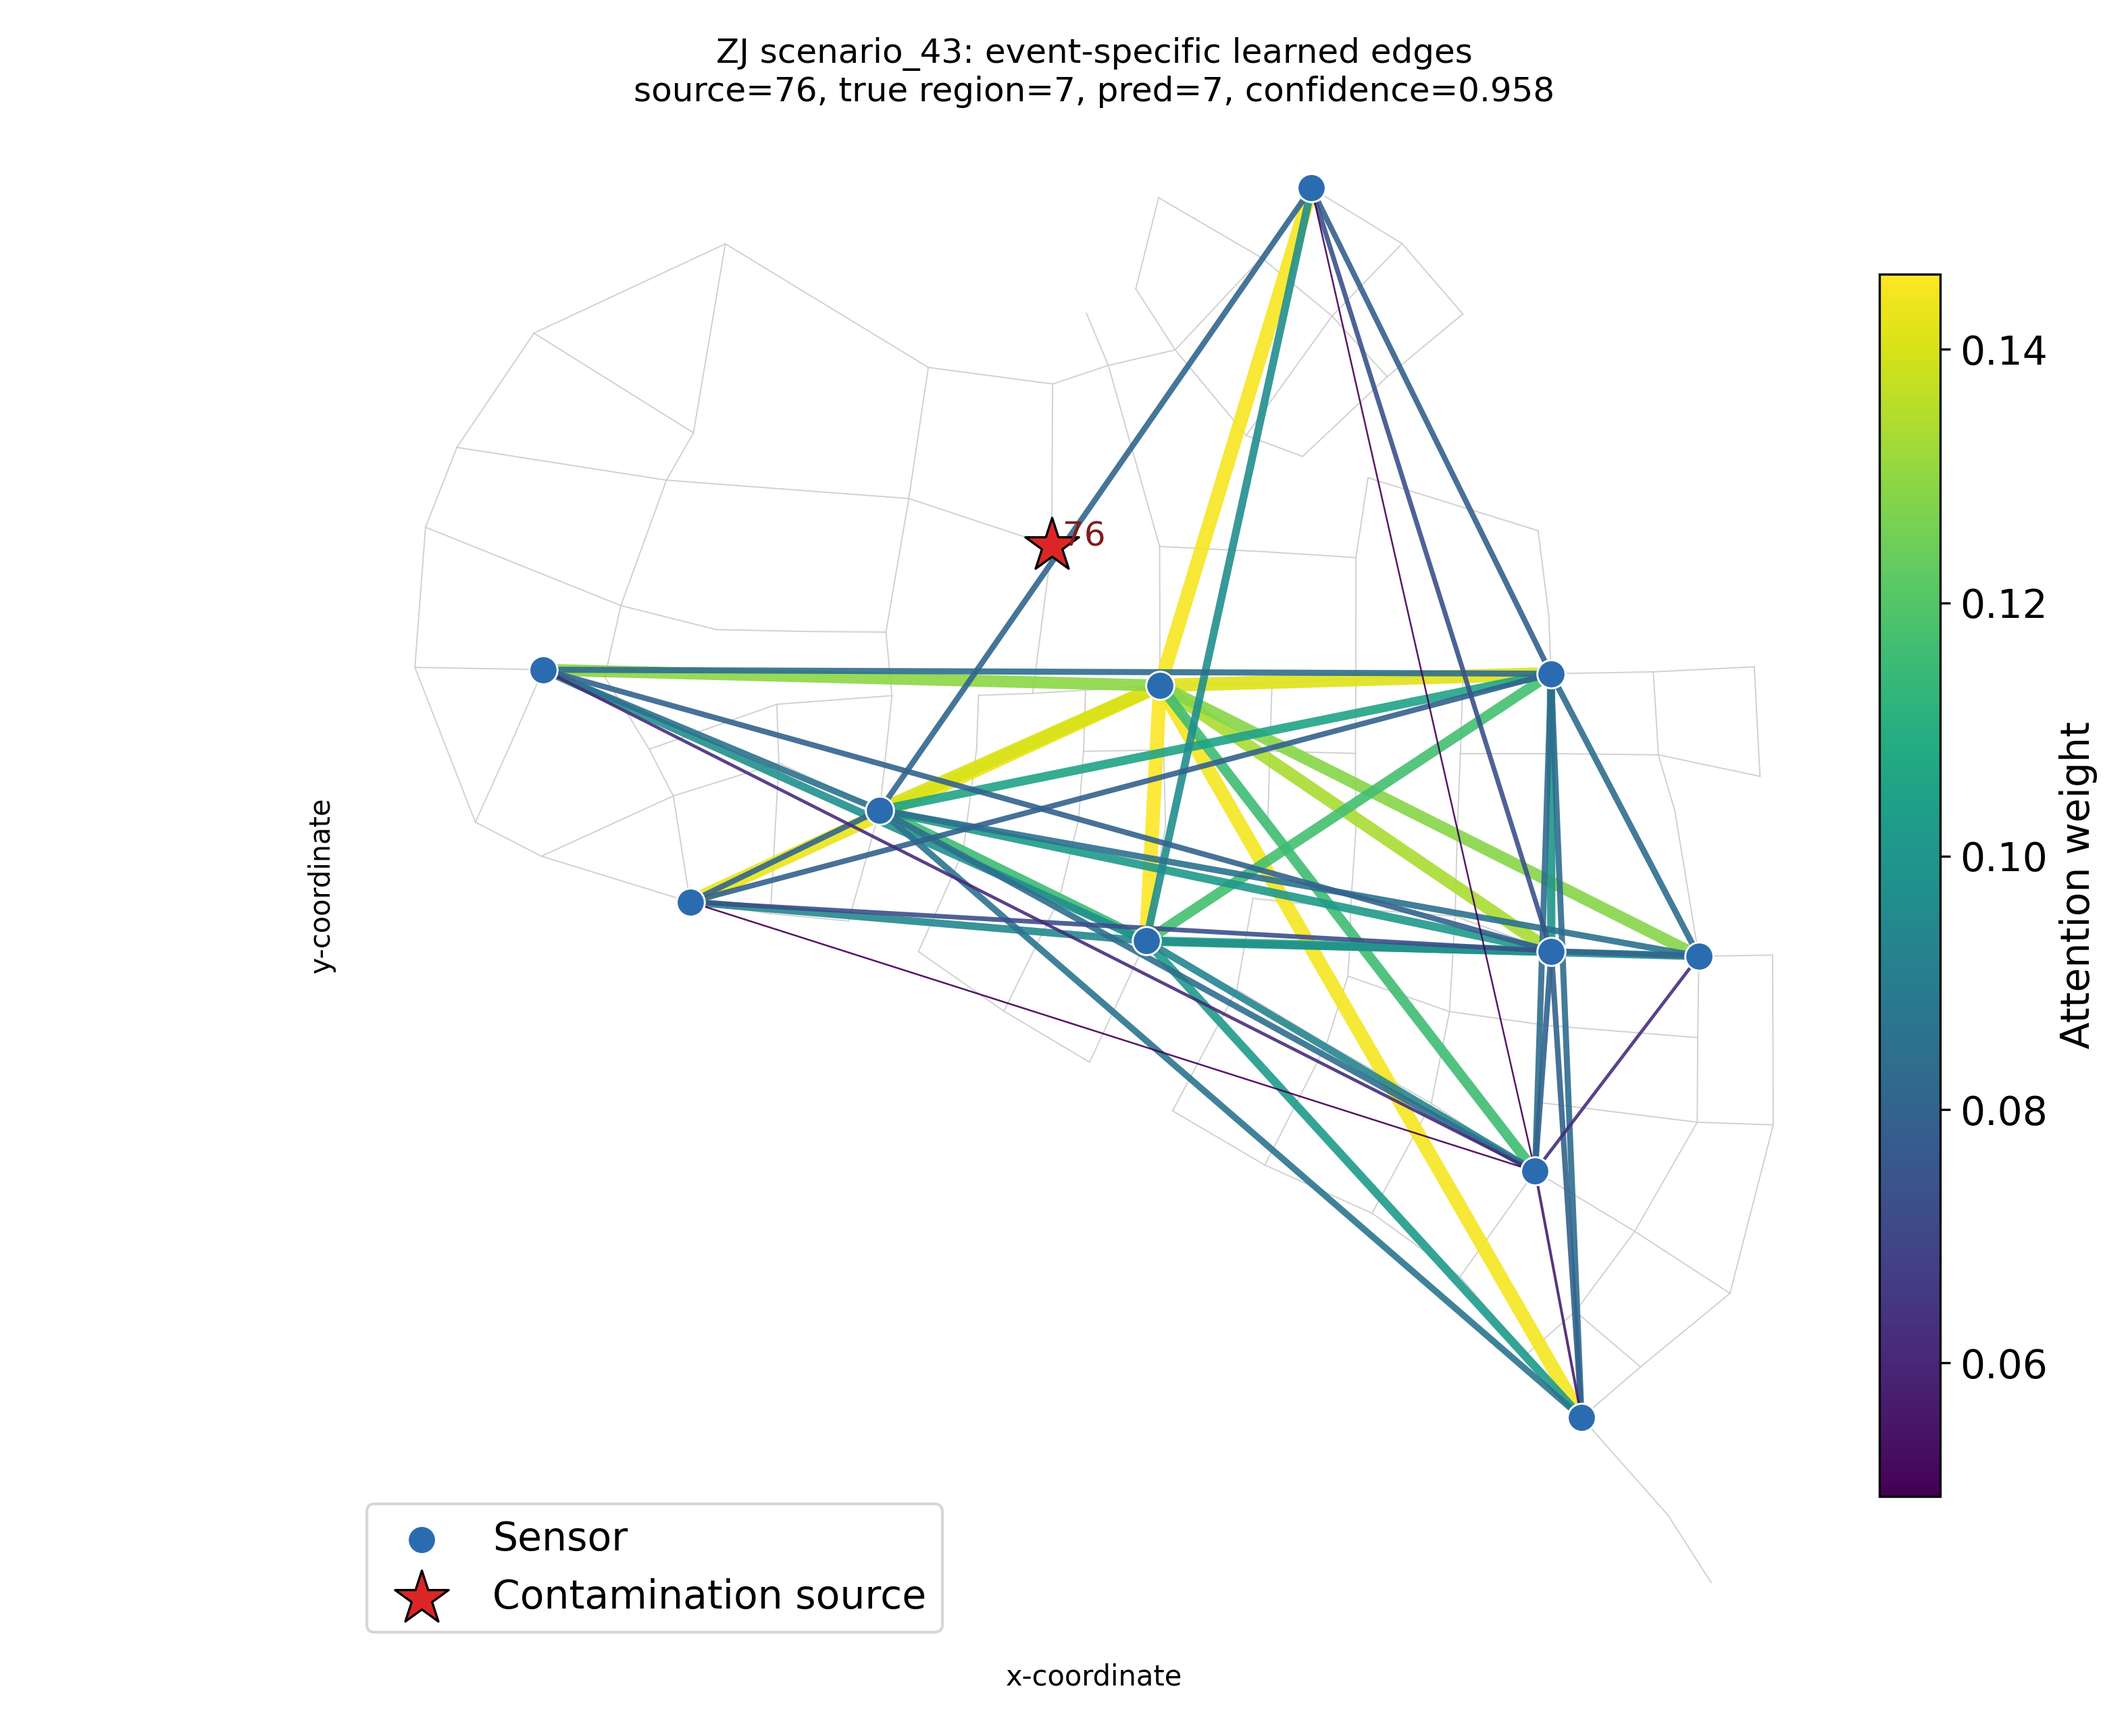
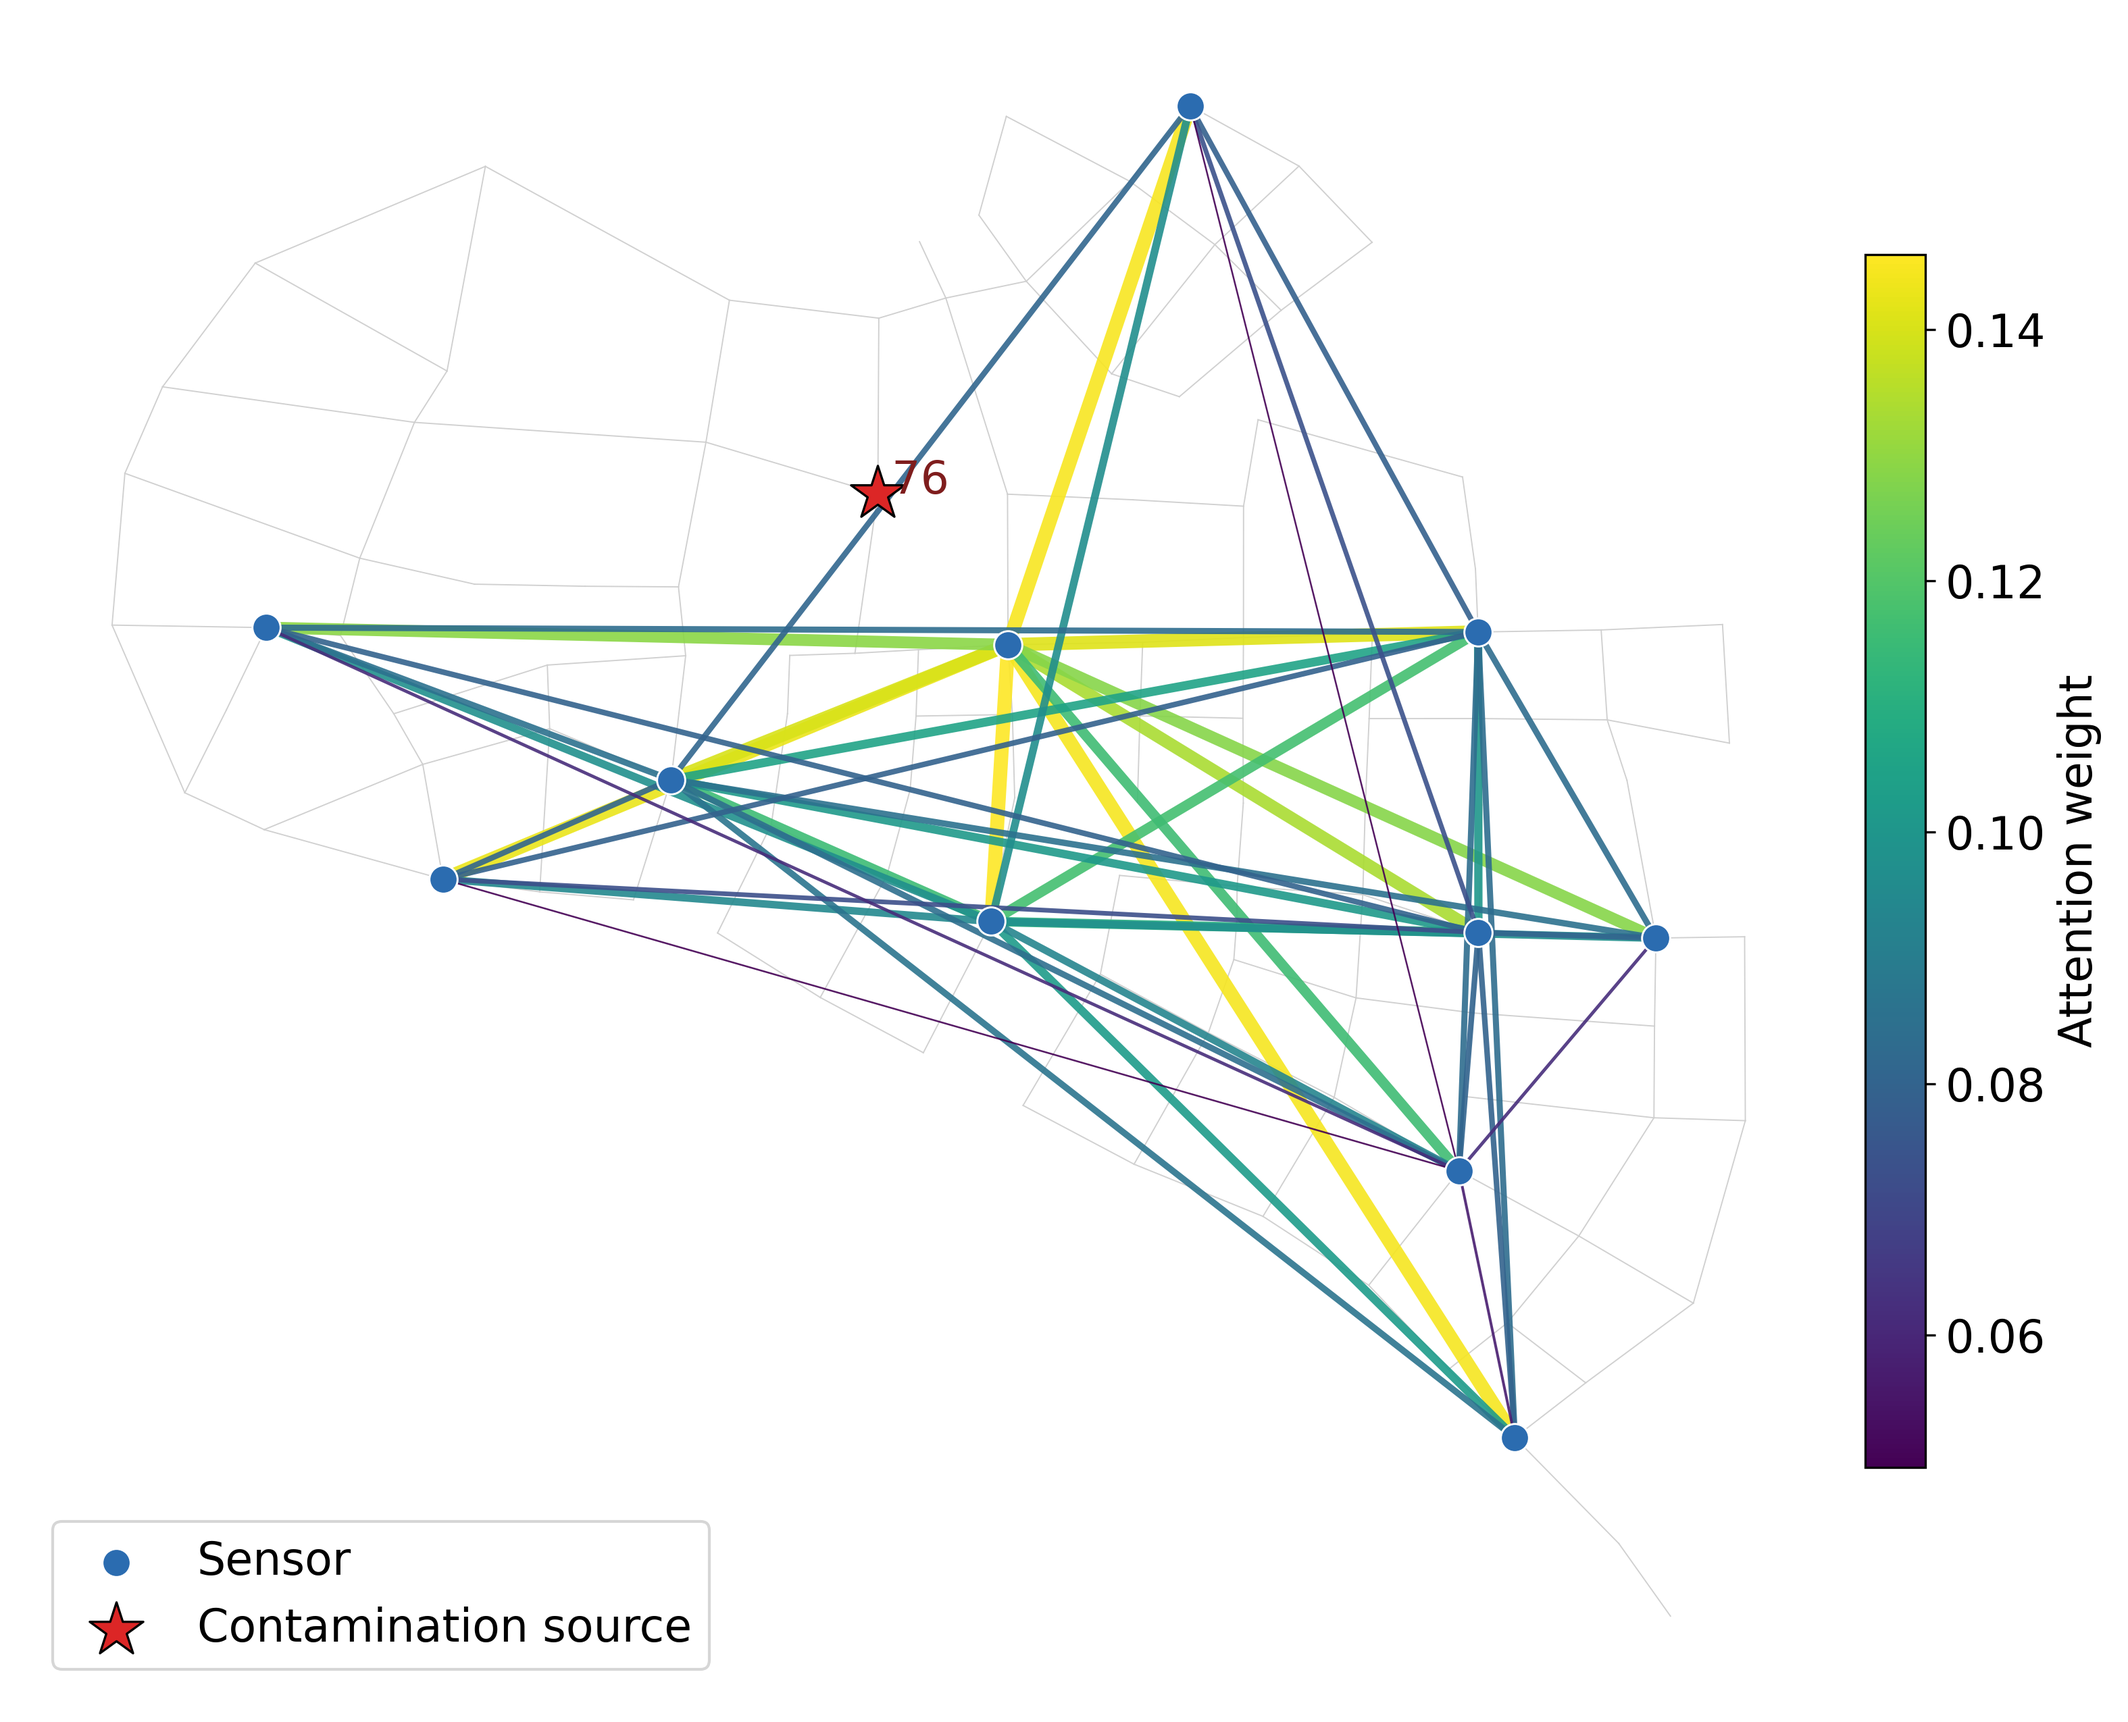
update

diff --git a/README.md b/README.md
@@ -2,9 +2,16 @@
 
 # SCGNN
 
+[![ICANN 2026](https://img.shields.io/badge/ICANN-2026-blue)](https://e-nns.org/icann2026/)
+[![Dataset](https://img.shields.io/badge/Dataset-Zenodo-blue)](https://doi.org/10.5281/zenodo.20462263)
+[![Python 3.10+](https://img.shields.io/badge/Python-3.10%2B-blue)](https://www.python.org/)
+[![License](https://img.shields.io/badge/License-Apache%202.0-blue)](LICENSE)
+
 Sensor-only Contrastive Graph Neural Network (SCGNN) for contamination source isolation in water distribution networks (WDN). The paper is accepted at [35th International Conference on Artificial Neural Networks (ICANN 2026)](https://e-nns.org/icann2026/).
 
 ![](figures/framework.png)
+
+> **Abstract**: Contamination source isolation in water distribution networks (WDN) is critical for ensuring public health and safety. Traditional graph-based methods rely on the complete WDN topology, which becomes ineffective under sparse sensor placement due to limited observations. In this paper, we propose a novel sensor-only graph learning framework that leverages self-attention mechanisms to learn latent connections among sensor nodes directly from water quality measurements, eliminating the need for physical network topology. This approach enables effective message passing and feature aggregation using only the deployed sensors as graph nodes. Additionally, we introduce a contrastive learning objective to regularize the learned adjacency matrix, ensuring it captures contamination-relevant dependencies. Experiments on benchmark WDN datasets demonstrate that the proposed method outperforms existing graph-based and transformer-based models in contamination source isolation accuracy while maintaining competitive computational efficiency.
 
 ## Dataset
 
